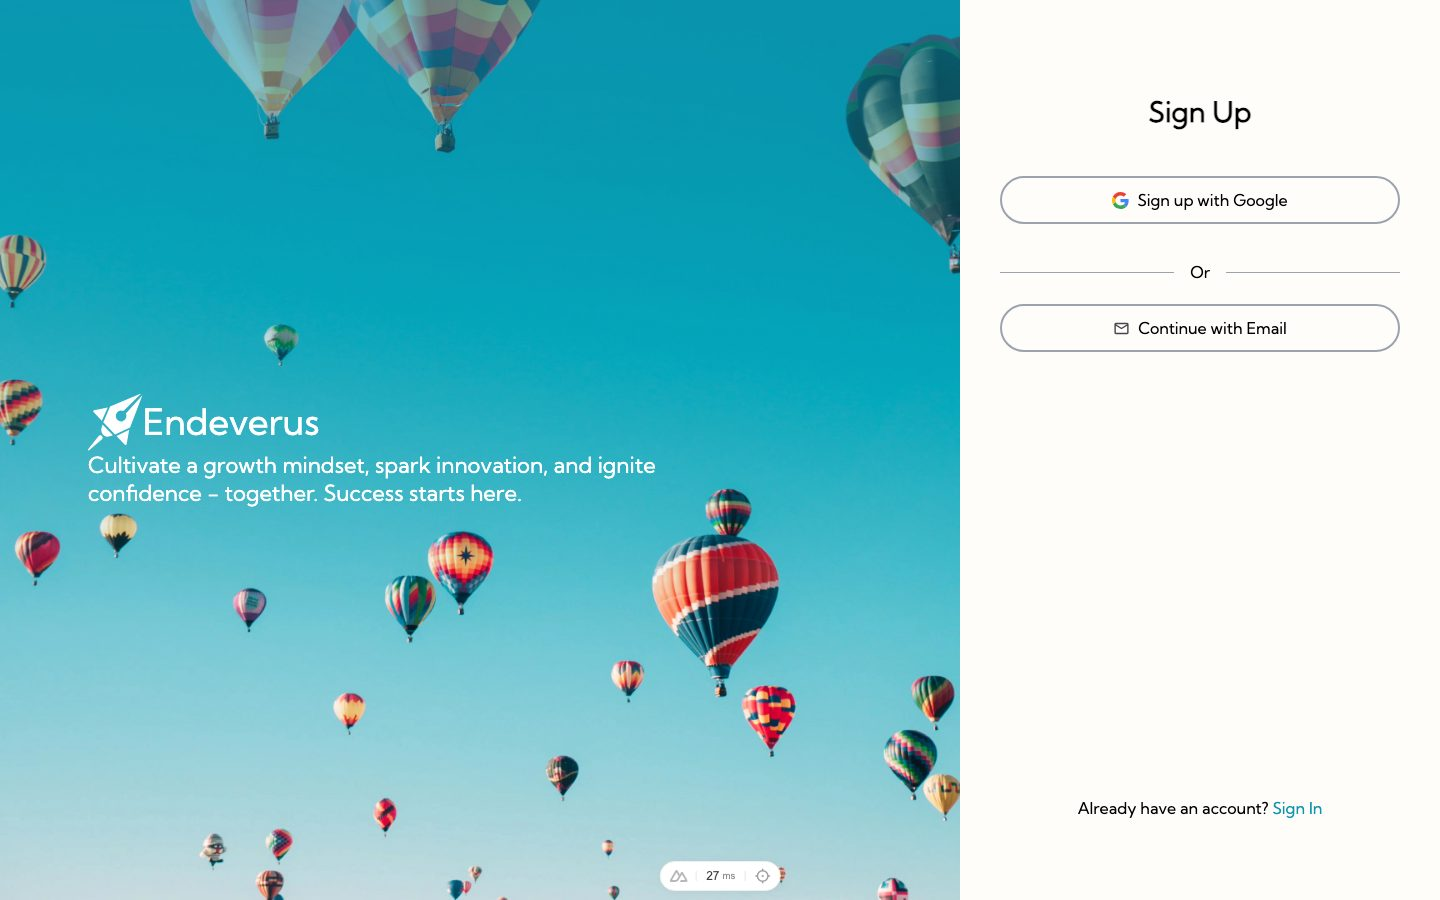
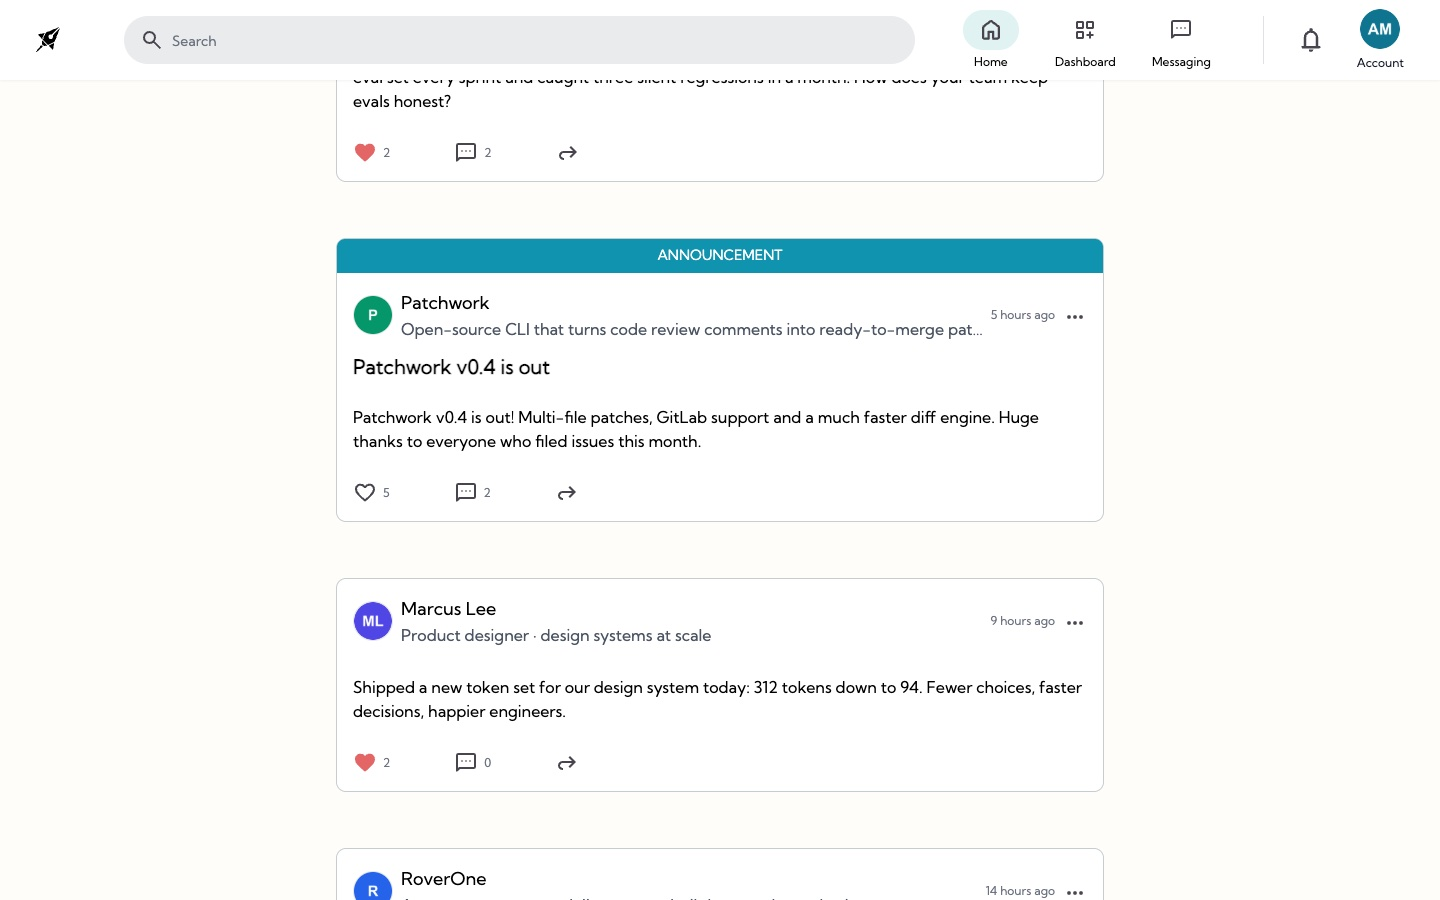
Replace Endeverus sign-in shots with in-app screenshots
Eight captures from a local run with fictional seed data: home, feed,
project page, profile, question thread, poll, AI chat and sign-in.

diff --git a/data/projects.ts b/data/projects.ts
@@ -256,8 +256,14 @@ export const projects: Project[] = [
     ],
     outcome: "The frontend of a niche tech-industry social network.",
     images: shots("endeverous", [
+      "Home page with personalized welcome and new-project carousel",
+      "Home feed with announcement and community posts",
+      "Project page with posts, contributors and opportunities tabs",
+      "Member profile with bio, projects and posts",
+      "Question post with threaded reply",
+      "Community poll post",
+      "Endeverus AI assistant chat",
       "Sign-in screen with email and Google sign-in",
-      "Sign-up screen",
     ]),
   },
   {
